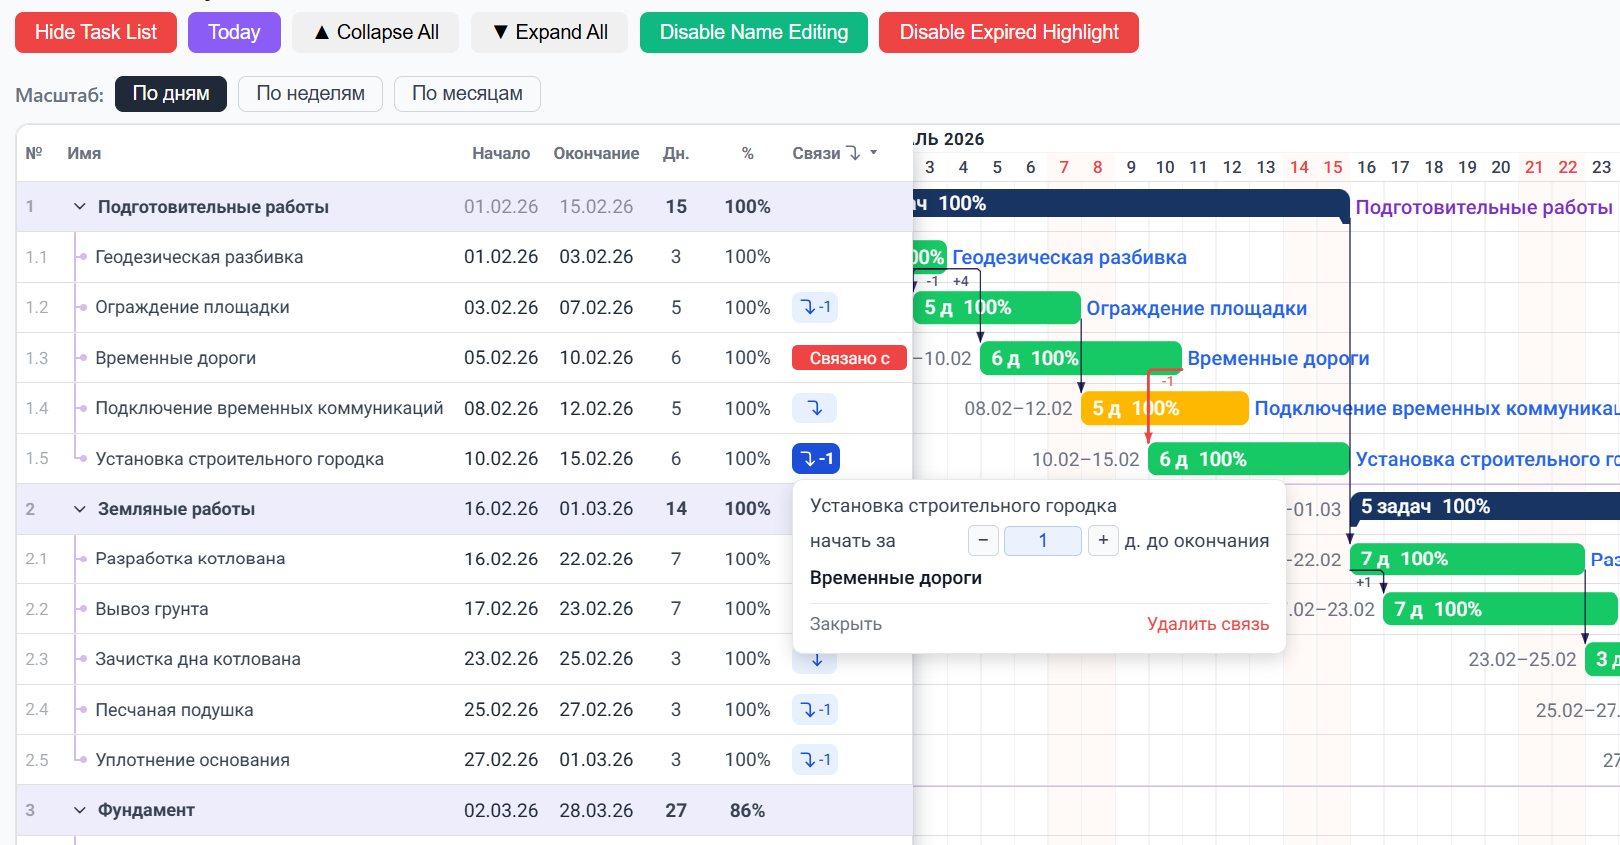
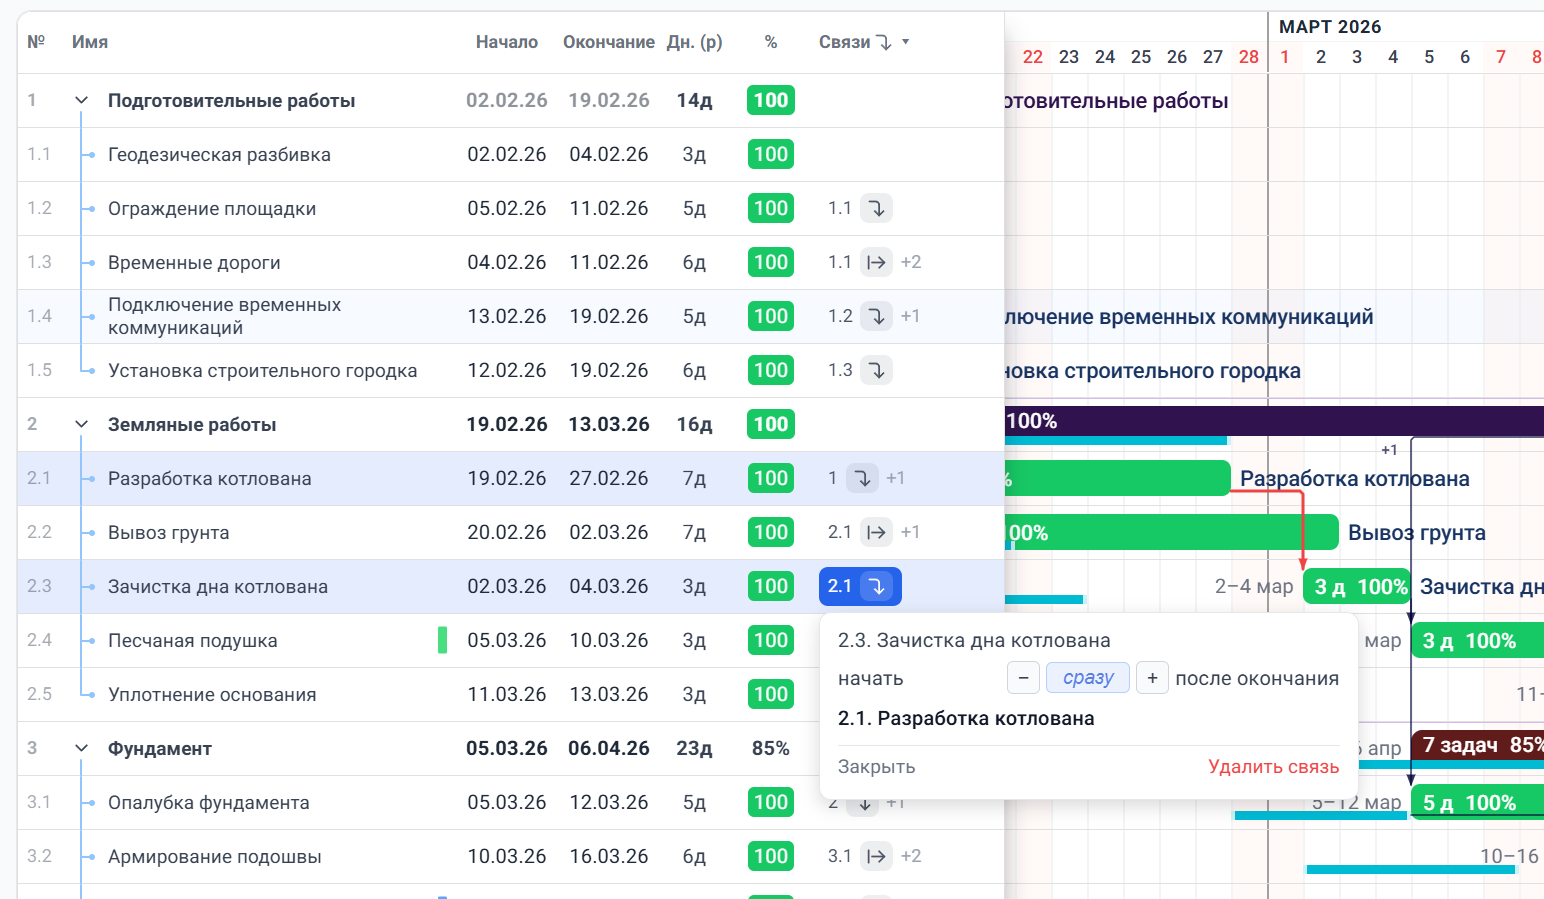
feat: update README and package description for gantt-lib
- Revised README.md to reflect the expanded functionality of gantt-lib, emphasizing its use for timeline planning, resource allocation, and table-matrix scenarios.
- Updated package.json description to better represent the library's capabilities beyond a classic Gantt chart.
- Added new images to README for enhanced visual representation of features.

diff --git a/packages/gantt-lib/README.md b/packages/gantt-lib/README.md
@@ -2,13 +2,19 @@
 
 [![Demo](https://img.shields.io/badge/demo-online-brightgreen)](https://gantt-lib-demo.vercel.app/)
 
-![Screenshot](https://raw.githubusercontent.com/simon100500/gantt-lib/refs/heads/master/docs/images/screen.png)
+`gantt-lib` is no longer just a classic Gantt chart. It is a React scheduling UI library for timeline planning, resource allocation, and table-matrix scenarios such as finance plans, budgets, and other period-based data views.
 
-Lightweight React Gantt chart component library with drag-and-drop task management.
+![Gantt](https://raw.githubusercontent.com/simon100500/gantt-lib/refs/heads/master/docs/images/screen.png)
+![Resources](https://raw.githubusercontent.com/simon100500/gantt-lib/refs/heads/master/docs/images/resource.png)
+![Finance Matrix](https://raw.githubusercontent.com/simon100500/gantt-lib/refs/heads/master/docs/images/finance.png)
+
+Use it for project timelines, resource planners, capacity views, and spreadsheet-like matrices that stay aligned with the same left-side task list and time context.
 
 ## Features
 
 - 📊 **Interactive Gantt chart** with drag-and-drop task management
+- 👥 **Resource planner** for people, equipment, rooms, crews, and assignments
+- 💰 **Table matrix mode** for finance plans, budgets, KPIs, and other spreadsheet-like period views
 - 🎨 **Customizable** via CSS variables
 - 📅 **Multi-month calendar grid** with two-row header (month + day)
 - 🌈 **Weekend highlighting** with customizable colors

diff --git a/README.md b/README.md
@@ -6,9 +6,13 @@
 [![License](https://img.shields.io/npm/l/gantt-lib)](https://www.npmjs.com/package/gantt-lib)
 
 
-![Скриншот](docs/images/screen.png)
+`gantt-lib` уже не только про классическую диаграмму Ганта. Это React/Next.js библиотека для визуального планирования: задачи и зависимости, ресурсное планирование и табличные data-matrix сценарии вроде финансовых планов, бюджетов и period-based показателей.
 
-Лёгкий React/Next.js компонент диаграммы Ганта с drag-and-drop. Перемещайте и изменяйте размер задач прямо на сетке.
+![Gantt](docs/images/screen.png)
+![Resources](docs/images/resource.png)
+![Finance Matrix](docs/images/finance.png)
+
+Подходит для product/roadmap planning, resource allocation, capacity planning, finance matrices и других schedule-driven интерфейсов с общей временной шкалой и синхронизированной левой таблицей.
 
 ## Установка
 